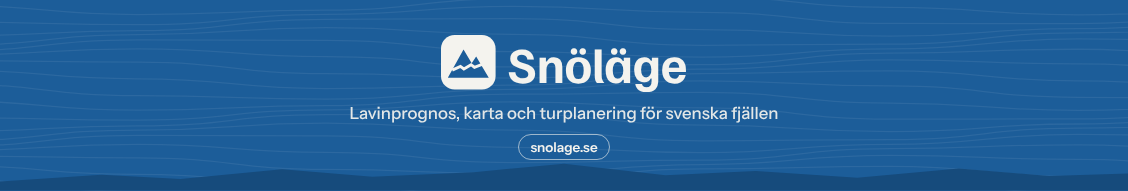
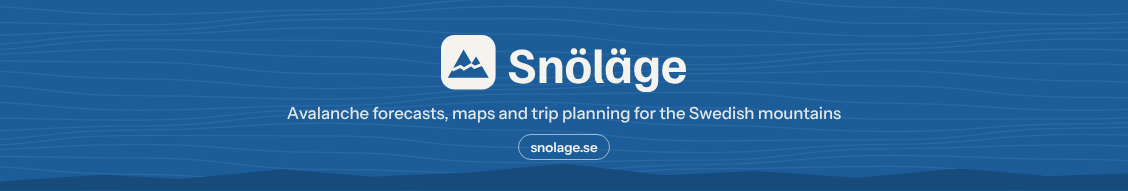
LinkedIn texts and covers in English
Project entry, headline, a launch post and an optional company page,
all in English, with covers carrying an English tagline.

Claude-Session: https://claude.ai/code/session_016gagaetJdXP8GZ53aH1qZN

Changed region(s): [[0.2482, 0.5497, 0.7447, 0.6545]]

diff --git a/Svenska laviner/marknad/profiler/7-linkedin/TEXT.md b/Svenska laviner/marknad/profiler/7-linkedin/TEXT.md
@@ -1,21 +1,125 @@
-## LinkedIn
+## LinkedIn (på engelska)
 
-**Din egen profil:** lägg till under **Projekt** (eller Erfarenhet):
+LinkedIn når yrkesfolk, rekryterare och tänkbara partners även utanför
+Sverige, så allt här är på engelska. Instruktionerna till dig är på
+svenska. Det du ska klistra in ligger i de grå rutorna.
 
-| Fält | Fyll i |
-| --- | --- |
-| Titel | `Snöläge – lavinapp för svenska fjällen` |
-| Roll | `Grundare och utvecklare` |
-| Från | september 2026 |
-| Länk | `https://snolage.se` |
+---
+
+### 1. Din egen profil: lägg till Snöläge som projekt
+
+Profil → **Lägg till profilavsnitt** → **Rekommenderat** → **Lägg till
+projekt** (eller **Erfarenhet** om du hellre vill ha det där).
+
+**Project name:**
 
 ```
-Jag har byggt Snöläge, en gratis app och webbplats för toppturåkare i de svenska fjällen. Den samlar Naturvårdsverkets lavinprognoser, SMHI:s väder och varningar, Lantmäteriets kartor med lutning och turplanering som jämförs med dagens lavinproblem. Byggd i TypeScript med React och Capacitor för webb, Android och iPhone, och Cloudflare Workers som server.
+Snöläge – avalanche forecasts and trip planning for the Swedish mountains
 ```
 
-**Företagssida (valfritt, senare):** samma namn, `omslag-foretagssida.png`
-som omslag och samma korta bio som Facebook.
+**Role / position:** `Founder and developer`
 
-**Bilder:** `omslag-profil.png` (1584×396) är omslaget på din egen profil. `omslag-foretagssida.png` (1128×191) är för företagssidan om du skapar en.
+**Start date:** September 2026, kryssa i att du fortfarande jobbar med det.
 
-**Bilder i den här mappen:** `omslag-profil.png`, `omslag-foretagssida.png`, `profilbild.png`
+**Project URL:** `https://snolage.se`
+
+**Skills:** TypeScript, React, Cloudflare Workers, Mobile app development,
+Product development
+
+**Description:**
+
+```
+I built Snöläge, a free app and website for backcountry skiers in the Swedish mountains.
+
+It brings together the official avalanche forecasts from the Swedish Environmental Protection Agency, weather and warnings from SMHI, snow depth, and Lantmäteriet's topographic maps with slope angles – on one screen, and offline when there is no coverage. You can draw a route and see which parts cross steep terrain where today's avalanche problems are, log observations from the field, and share tours with friends.
+
+Built solo in TypeScript with React and Capacitor (web, Android and iPhone from one codebase) and Cloudflare Workers, D1 and R2 on the server. Free, no ads, no tracking.
+```
+
+**Rubrik (headline), valfritt:** lägg till en bit sist i din rubrik, till
+exempel:
+
+```
+Building Snöläge – avalanche forecasts and trip planning for the Swedish mountains
+```
+
+**Omslagsbild:** `omslag-profil.png` (1584×396). Profil → kameran uppe
+till höger på omslaget.
+
+---
+
+### 2. Inlägg när du lanserar (eller redan nu, som berättelsen om dig)
+
+Lägg upp det från din egen profil. Bifoga 2–3 skärmbilder från appen
+eller ett kort klipp. Byt ut hakparenteserna.
+
+```
+I've spent the past weeks building something I wanted for myself: Snöläge, a free avalanche and trip-planning app for the Swedish mountains.
+
+Before every ski tour I used to jump between the official avalanche forecast, the weather service and a map app. Snöläge puts it all in one place:
+
+🏔 Official avalanche forecasts for all six Swedish forecast areas
+🌨 Weather, warnings and measured snow depth
+🗺 Topographic maps with slope angles, saved for offline use
+📍 Route planning that flags the parts of your route on steep slopes where today's avalanche problems are
+👥 Field observations and shared tours
+
+It runs on the web, Android and iPhone from one TypeScript codebase, with Cloudflare Workers on the server – built solo.
+
+It's decision support, not a guarantee: take an avalanche course and bring your transceiver, shovel and probe.
+
+If you ski in Sweden, I'd love your feedback: snolage.se
+
+#backcountryskiing #avalanchesafety #buildinpublic #sweden #typescript
+```
+
+**Tips:** lägg länken i första kommentaren i stället för i inlägget om
+du vill. LinkedIn visar inlägg med länkar för färre personer. Skriv då
+"Link in the comments" sist i texten.
+
+---
+
+### 3. Företagssida (valfritt, senare)
+
+Profil → **Fler** → **Skapa en företagssida** → **Företag**. Det kräver
+inget registrerat företag.
+
+**Name:** `Snöläge`
+
+**LinkedIn public URL:** `linkedin.com/company/snolage`
+
+**Website:** `https://snolage.se`
+
+**Industry:** `Software Development`
+
+**Organization size:** `0–1 employees`
+
+**Organization type:** `Self-employed` (byt till `Sole proprietorship` när
+du har registrerat enskild firma)
+
+**Logo:** `profilbild.png`
+
+**Cover:** `omslag-foretagssida.png` (1128×191)
+
+**Tagline (max 120):**
+
+```
+Avalanche forecasts, weather, maps and trip planning for the Swedish mountains. Free, no ads.
+```
+
+**About / Overview:**
+
+```
+Snöläge is a free app and website for backcountry skiers and ski tourers in the Swedish mountains.
+
+It brings together the official avalanche forecasts for all six Swedish forecast areas, weather and warnings, measured snow depth, and topographic maps with slope angles – on one screen, and offline when there is no coverage. Plan a route and see which parts cross steep terrain where today's avalanche problems are, report what you see in the field, and share tours with friends.
+
+Available in Swedish and English on the web, Android and iPhone. No ads, no tracking.
+
+Snöläge is decision support and does not replace your own judgement, avalanche training or equipment.
+```
+
+---
+
+**Bilder i den här mappen:** `omslag-profil.png`, `omslag-foretagssida.png`,
+`profilbild.png`. Omslagen har engelsk text.

diff --git a/Svenska laviner/PROFILER.md b/Svenska laviner/PROFILER.md
@@ -12,7 +12,7 @@ plattformen. Mapparna står i den ordning du skaffar kontona.
 | `4-youtube/` | YouTube | profilbild, banner (2560×1440) |
 | `5-strava/` | Strava-klubb | profilbild, omslag (1584×396) |
 | `6-reddit/` | Reddit (ditt eget konto) | inga |
-| `7-linkedin/` | LinkedIn | profilbild, omslag till profil (1584×396) och företagssida (1128×191) |
+| `7-linkedin/` | LinkedIn (på engelska) | profilbild, engelska omslag till profil (1584×396) och företagssida (1128×191) |
 
 **Samma överallt:**
 

diff --git a/Svenska laviner/SOCIALA-MEDIER.md b/Svenska laviner/SOCIALA-MEDIER.md
@@ -175,8 +175,8 @@ svenska, och appen visar svenska för dem.
   besökare i Riksgränsen och Abisko, till exempel "Skiing in Swedish
   Lapland? Read the avalanche forecast in English". Samma konton, inga
   separata engelska konton, så att följarna inte delas upp.
-- **Reddit (r/Backcountry, r/skiing) och appbutikernas engelska sida:**
-  engelska.
+- **Reddit (r/Backcountry, r/skiing), LinkedIn och appbutikernas engelska
+  sida:** engelska.
 
 ---
 
